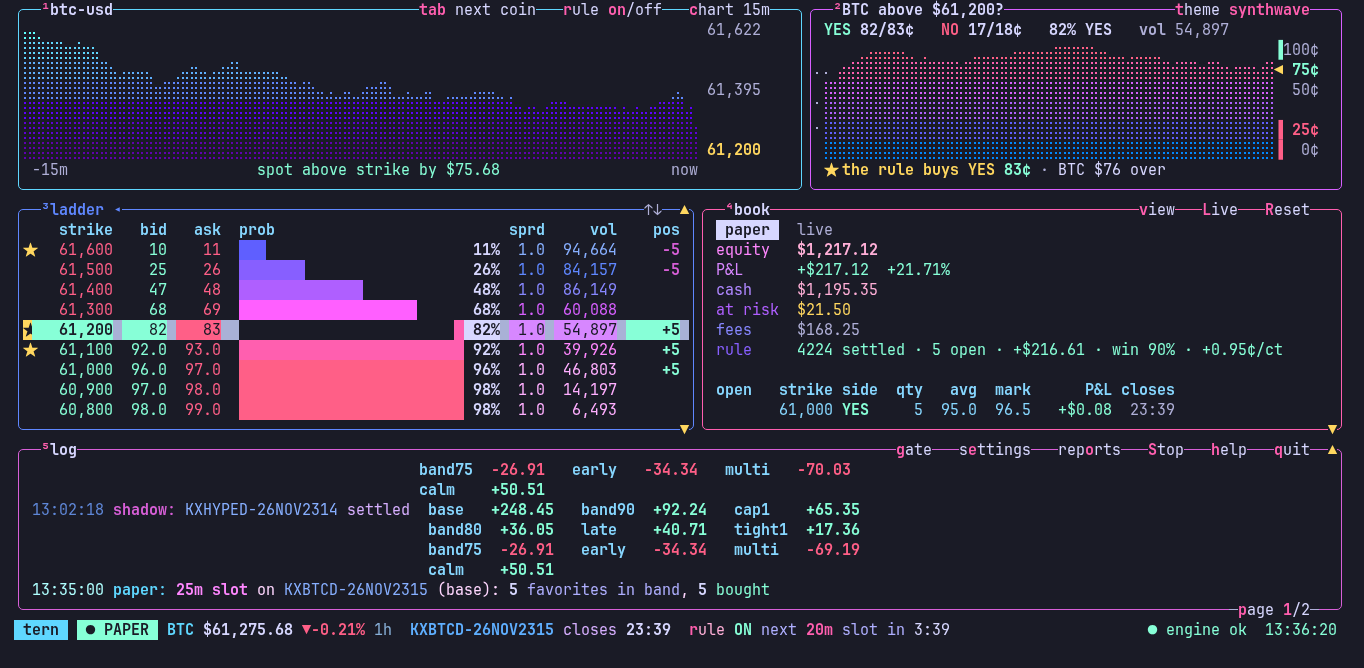
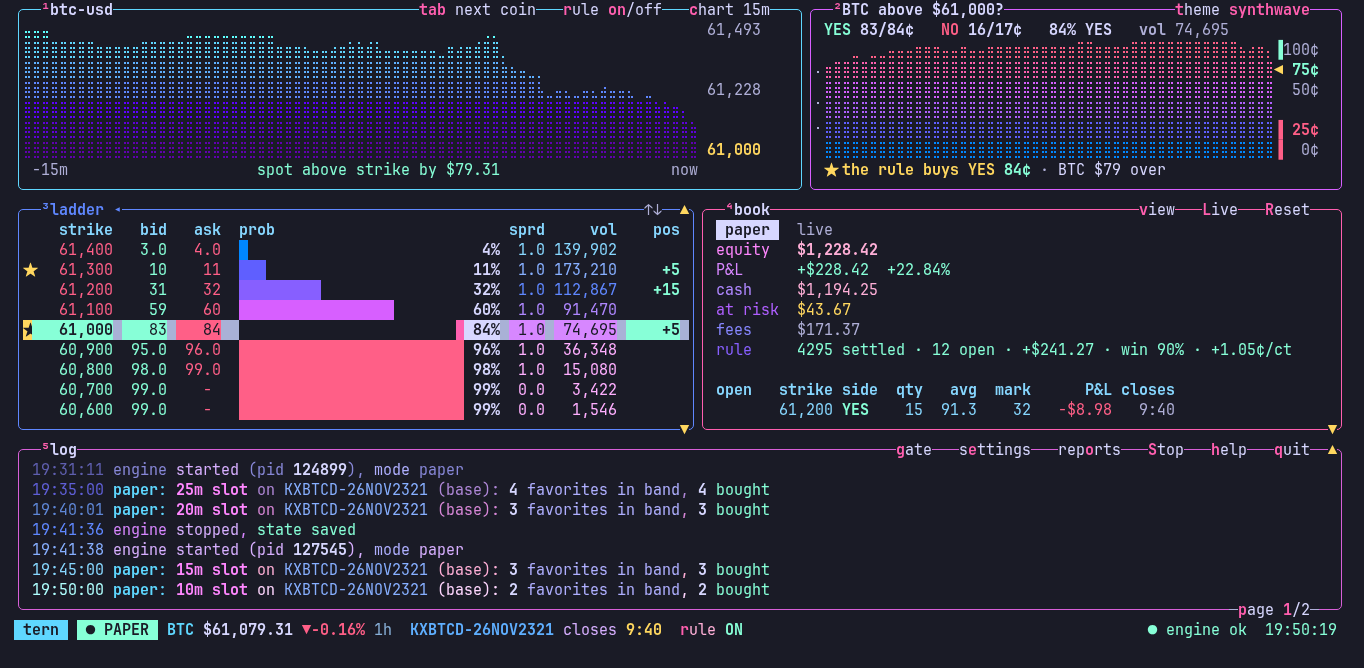
Gate column says the P&L it needs; README screenshots retaken

diff --git a/tests/test_tern.py b/tests/test_tern.py
@@ -3157,6 +3157,18 @@ class VariantSettingsReview(unittest.TestCase):
             self.open("base"); self.press(self.curses.KEY_RIGHT, "s")
             self.assertEqual(scr.modal["type"], "vname")
 
+    def test_the_gate_column_says_the_pnl_it_needs(self):
+        with tempfile.TemporaryDirectory() as d:
+            k, p, scr = self.setup(d)
+            self.press("p")
+            for need, say in ((100, "P&L<$100"), (-50, "✓P&L"), (0, "P&L<$0")):
+                k.cfg.gate.min_pnl = need
+                k.shadow.agg = {}; k.shadow.recent = {}
+                k.shadow._count({"v": "base", "event": "E-1", "pnl": 73.78 if need else -1.0, "n": 5, "fee": 0.1, "close": 1,
+                                 "ticker": "E-1-T1", "side": "yes", "cost": 0.8, "ts": 1.0, "slot": 25})
+                self.sync()
+                self.assertIn(say, next(l for l in self.text().splitlines() if " base " in l and "d " in l))
+
     # 3
     def test_nothing_is_saved_through_an_engine_older_than_the_screen(self):
         with tempfile.TemporaryDirectory() as d:

diff --git a/tern/dash.py b/tern/dash.py
@@ -1307,7 +1307,8 @@ class Screen:
                     have = c["have"]
                     txt = ({"days": "days", "entries": "ent", "pnl": "P&L"}[c["key"]] if c["ok"] else
                            f"{have:.1f}/{c['need']:g}d" if c["key"] == "days" else
-                           f"{have}/{c['need']}" if c["key"] == "entries" else "P&L<0")
+                           f"{have}/{c['need']}" if c["key"] == "entries" else
+                           f"P&L<{'-' if c['need'] < 0 else ''}${abs(c['need']):g}")
                     txt = ("✓" if c["ok"] else "") + txt
                     self.put(yy, cx, txt + " ", P(GREEN if c["ok"] else YELLOW) | base)
                     cx += len(txt) + 1
